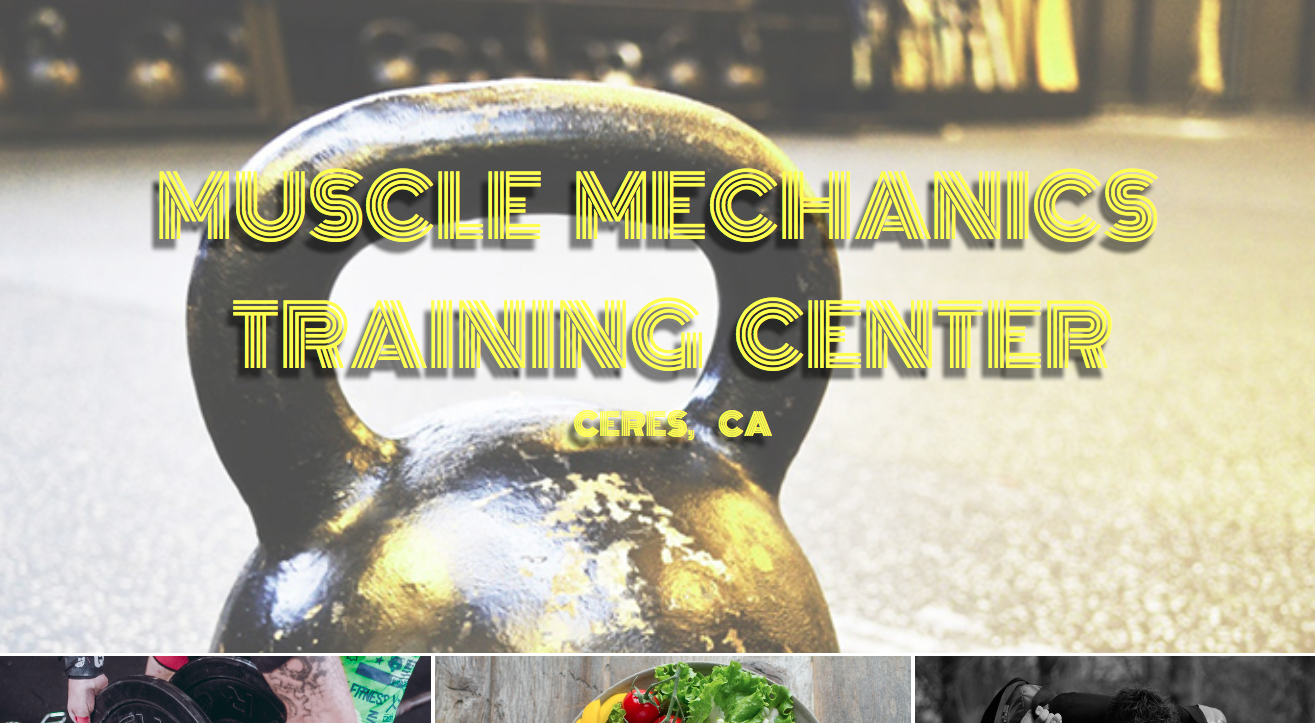
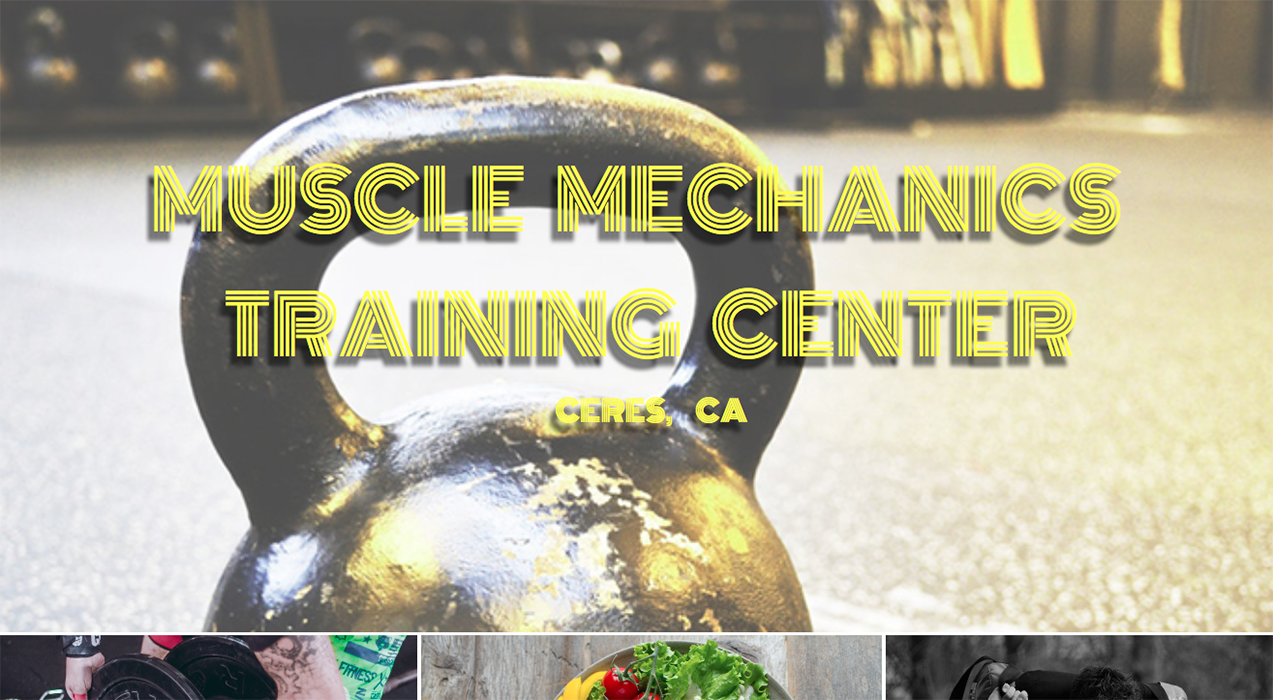
add

diff --git a/css/resume.css b/css/resume.css
@@ -8,7 +8,6 @@
 body {
 	font-family: 'Quattrocento', Serif;
 	font-size: 16px;
-	max-width: 100%;
 }
 
 header  {
@@ -49,6 +48,12 @@ nav ul li:hover {
 
 }
 
+@media (max-width: 500px) {
+	nav ul {
+		font-size: 12px;
+	}
+}
+
 #hero {
 	background: url('../img/web.jpeg') fixed;
 	background-size: cover;
@@ -82,6 +87,20 @@ nav ul li:hover {
 	text-align: center;
 	font-size: 44px;
 	font-family: 'Oswald', Sans-Serif;
+}
+
+@media (max-width: 800px) {
+
+}
+
+@media (max-width: 500px) {
+
+	.intro h1 {
+		font-size: 45px;
+	}
+	.intro h2 {
+		font-size: 20px;
+	}
 }
 
 .section-title {
@@ -134,6 +153,16 @@ nav ul li:hover {
 	}
 }
 
+@media (max-width: 500px) {
+	#about {
+		padding: 50px 10px;	
+	}
+	.one .imageContain img {
+		width: 75%;
+		margin: 10px;
+	}
+}
+
 .two {
 	background: linear-gradient(to bottom, gray, transparent), url('../img/two_background6.jpeg') fixed;
 	background-size: cover;
@@ -160,15 +189,16 @@ nav ul li:hover {
 
 #showContainer a {
 	text-decoration: none;
-	color: #000;
-	font-size: 40px;
+	color: #fff;
+	font-family: 'Oswald', Sans-Serif;
+	font-size: 35px;
 	
 }
 
 #showContainer .caption {
-	background: rgba(255, 255, 255, 0.5);
+	background: rgba(0, 0, 0, 0.5);
 	padding: 5px; 
-	border-radius: 5px;
+	border-radius: 2px;
 }
 
 #showContainer .imageContainer .slide_img {
@@ -218,6 +248,16 @@ nav ul li:hover {
 	}
 }
 
+@media (max-width: 500px) {
+	.two_p {
+		font-size: 2em;
+		padding: 20px 0 5px;
+	}
+	#showContainer {
+		width: 95%;
+	}
+}
+
 #contact {
 	background-color: white;
 	margin-bottom: 100px;
@@ -225,9 +265,8 @@ nav ul li:hover {
 
 .three .form_heading {
 	font-family: 'Oswald', Serif;
-	margin-left: 140px;
+	text-align: center;
 	margin-top: 50px;
-	text-align: left;
 	font-size: 2.5em;
 	width: 100%;
 }
@@ -236,7 +275,7 @@ form {
 	text-align: center;
 	margin: auto;
 	width: 80%;
-	padding: 20px 140px;
+	padding: 20px;
 }
 
 input, textarea {
@@ -266,17 +305,25 @@ textarea {
 }
 
 @media (max-width: 800px) {
-
+	form {
+		padding: 20px;
+	}
 }
 
 @media (max-width: 500px) {
 	#contact {
-		width: 50%;
+		width: 100%;
+	}
+	.three .form_heading {
+		margin-left: 0px;
+		text-align: center;
+	}
+	textarea {
+		height: 100px;
 	}
 }
 
 footer {
-	height: 18vh;
 	background: gray;
 	margin-top: 0;
 	color: white;
@@ -295,10 +342,4 @@ footer h2 {
 footer img {
 	width: 40px;
 	margin: 10px;
-}
-
-@media (max-width: 414px) {
-	footer {
-		height: 10vh;
-	}
 }

diff --git a/index.html b/index.html
@@ -1,5 +1,6 @@
 <!DOCTYPE html>
   <html>
+
     <head>
       <meta charset="utf-8">
       <title>Raymond Martinez' Resume</title>
@@ -104,7 +105,7 @@
           <div class="imageContainer" id="im_5">
             <img class="slide_img" src="img/Weather_API2.png">
             <div class="caption">
-              Current Weather
+              <a href="#">Current Weather</a>
             </div>
           </div>
 
